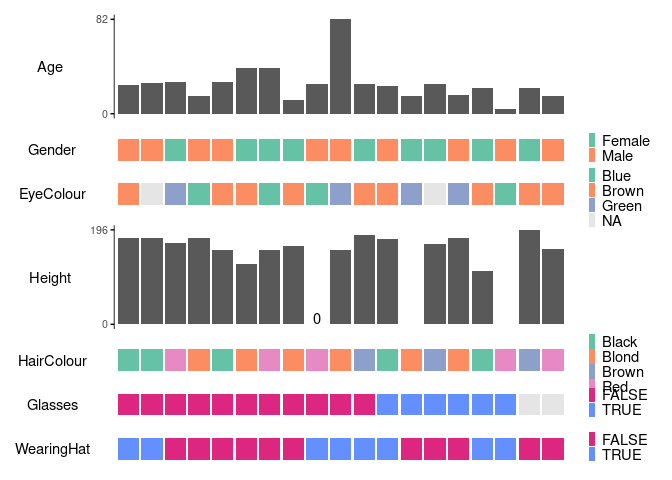
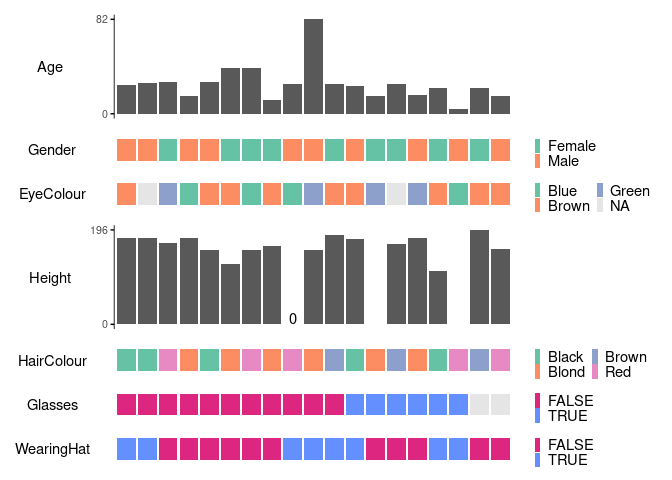
updated readme legend nrow

diff --git a/README.md b/README.md
@@ -55,7 +55,7 @@ path_gg1d <- system.file("testdata/testinput.csv", package = "gg1d")
 df <- read.csv(path_gg1d, header = TRUE, na.strings = "")
 
 # Plot data, sort by Glasses
-gg1d_plot(df, col_id = "ID", col_sort = "Glasses", interactive = FALSE)
+gg1d_plot(df, col_id = "ID", col_sort = "Glasses", interactive = FALSE, legend_nrow = 2)
 #> ! Categorical columns must have <= 6 unique values to be visualised. Columns with too many unique values: Date (19)
 #> 
 #> ── Sorting ─────────────────────────────────────────────────────────────────────
